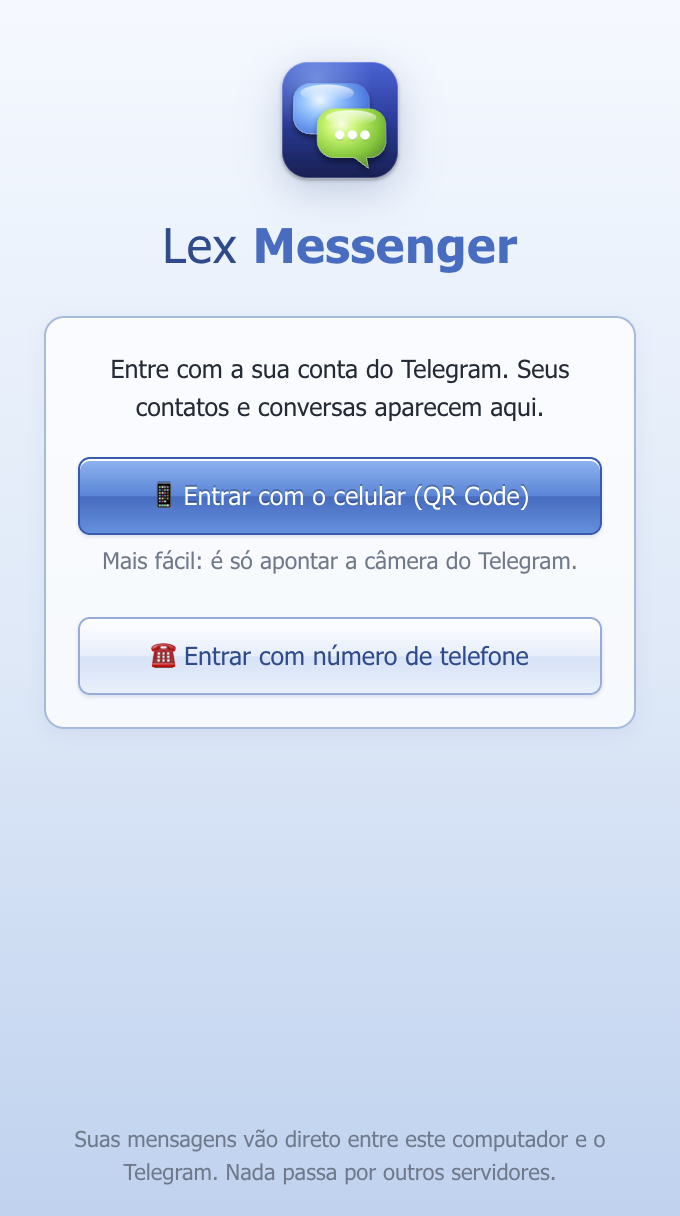
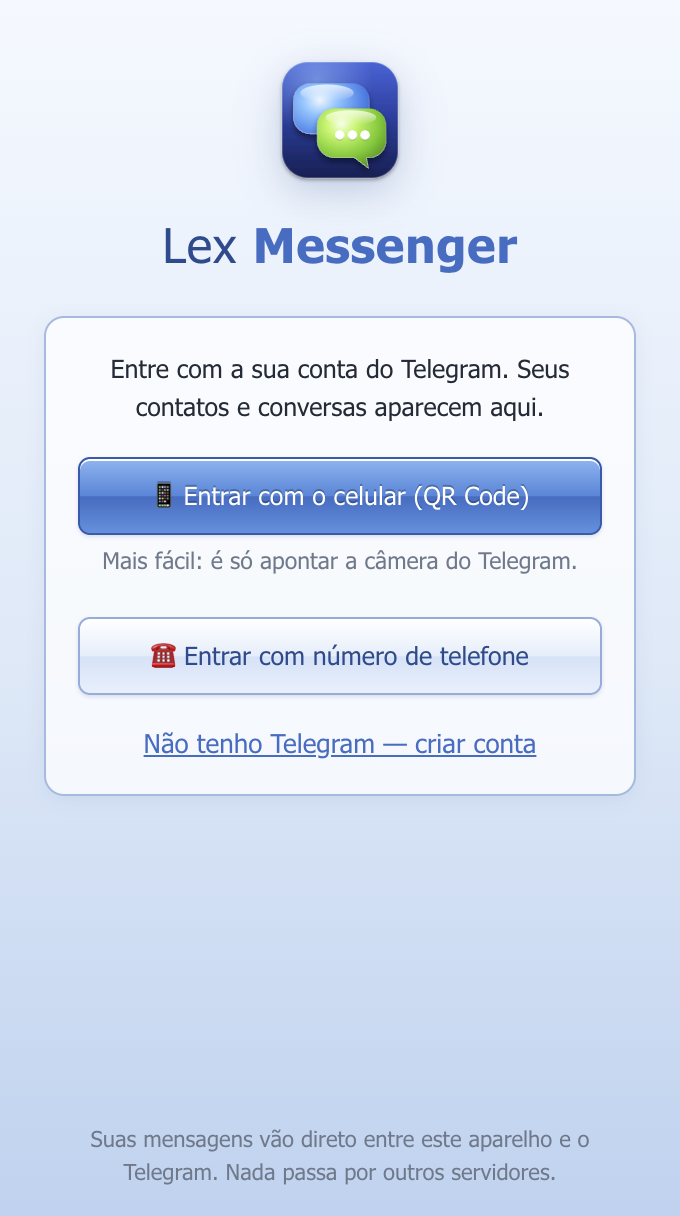
Criar conta do Telegram pelo Lex, com aceite explícito dos Termos
O GramJS aceita os Termos de Serviço automaticamente após o auth.SignUp; agora o Lex
só chega a esse ponto se a pessoa marcar "Li e aceito" na tela (com links para os
Termos e a Política de Privacidade do Telegram).

diff --git a/src/renderer/components/Login.tsx b/src/renderer/components/Login.tsx
@@ -10,6 +10,10 @@ export function Login({ auth }: { auth: AuthState }) {
   const [value, setValue] = useState('');
   const [busy, setBusy] = useState(false);
   const [qrImg, setQrImg] = useState('');
+  const [creating, setCreating] = useState(false);
+  const [first, setFirst] = useState('');
+  const [last, setLast] = useState('');
+  const [accepted, setAccepted] = useState(false);
   const input = useRef<HTMLInputElement>(null);
 
   useEffect(
@@ -26,7 +30,8 @@ export function Login({ auth }: { auth: AuthState }) {
 
   useEffect(() => input.current?.focus(), [step]);
 
-  const start = (m: 'phone' | 'qr') => {
+  const start = (m: 'phone' | 'qr', create = false) => {
+    setCreating(create);
     setMethod(m);
     setStep(null);
     setBusy(true);
@@ -42,6 +47,12 @@ export function Login({ auth }: { auth: AuthState }) {
 
   const submit = (e: React.FormEvent) => {
     e.preventDefault();
+    if (step?.step === 'signup') {
+      if (!first.trim() || !accepted) return;
+      setBusy(true);
+      void lex.loginAnswer(JSON.stringify({ first, last, accepted }));
+      return;
+    }
     if (!value.trim()) return;
     let v = value.trim();
     if (step?.step === 'phone') {
@@ -101,6 +112,9 @@ export function Login({ auth }: { auth: AuthState }) {
               </button>
             </>
           )}
+          <button className="link-btn create-account" onClick={() => start('phone', true)}>
+            Não tenho Telegram — criar conta
+          </button>
         </>
       )}
 
@@ -133,13 +147,16 @@ export function Login({ auth }: { auth: AuthState }) {
         </div>
       )}
 
-      {step && (step.step === 'phone' || step.step === 'code' || step.step === 'password') && (
+      {step && (step.step === 'phone' || step.step === 'code' || step.step === 'password' || step.step === 'signup') && (
         <form onSubmit={submit} className="login-form">
           {step.step === 'phone' && (
             <>
               <label htmlFor="v">Seu número de celular</label>
               <input ref={input} id="v" type="tel" placeholder="(91) 98888-7777" value={value} onChange={(e) => setValue(e.target.value)} />
-              <p className="hint">Com DDD. De outro país? Comece com + e o código do país.</p>
+              <p className="hint">
+                Com DDD. De outro país? Comece com + e o código do país.
+                {creating && ' Como você ainda não tem Telegram, o código chega por SMS.'}
+              </p>
             </>
           )}
           {step.step === 'code' && (
@@ -164,9 +181,38 @@ export function Login({ auth }: { auth: AuthState }) {
               {step.hint && <p className="hint">Dica: {step.hint}</p>}
             </>
           )}
+          {step.step === 'signup' && (
+            <>
+              <p className="intro">
+                <b>Vamos criar a sua conta do Telegram.</b> É grátis. Depois você também pode usar o app oficial do Telegram
+                com este número.
+              </p>
+              <label htmlFor="first">Nome</label>
+              <input ref={input} id="first" maxLength={64} value={first} onChange={(e) => setFirst(e.target.value)} autoComplete="given-name" />
+              <label htmlFor="last" className="spaced">
+                Sobrenome (opcional)
+              </label>
+              <input id="last" maxLength={64} value={last} onChange={(e) => setLast(e.target.value)} autoComplete="family-name" />
+              <label className="check terms">
+                <input type="checkbox" checked={accepted} onChange={(e) => setAccepted(e.target.checked)} />
+                Li e aceito os{' '}
+                <a href="https://telegram.org/tos/br" target="_blank" rel="noreferrer">
+                  Termos de Serviço
+                </a>{' '}
+                e a{' '}
+                <a href="https://telegram.org/privacy" target="_blank" rel="noreferrer">
+                  Política de Privacidade
+                </a>{' '}
+                do Telegram.
+              </label>
+            </>
+          )}
           {error && <p className="error">{error}</p>}
-          <button className="btn btn-primary wide" disabled={busy || !value.trim()}>
-            {busy ? 'Aguarde…' : 'Continuar'}
+          <button
+            className="btn btn-primary wide"
+            disabled={busy || (step.step === 'signup' ? !first.trim() || !accepted : !value.trim())}
+          >
+            {busy ? 'Aguarde…' : step.step === 'signup' ? 'Criar conta' : 'Continuar'}
           </button>
           <button type="button" className="btn wide" onClick={cancel}>
             Cancelar

diff --git a/src/core/telegram.ts b/src/core/telegram.ts
@@ -109,7 +109,11 @@ const ERRORS: Record<string, string> = {
   PHONE_CODE_EMPTY: 'Digite o código recebido.',
   PASSWORD_HASH_INVALID: 'Senha de verificação em duas etapas incorreta.',
   PHONE_NUMBER_BANNED: 'Este número está bloqueado pelo Telegram.',
-  PHONE_NUMBER_UNOCCUPIED: 'Este número ainda não tem conta no Telegram. Crie a conta no app oficial primeiro.',
+  PHONE_NUMBER_UNOCCUPIED: 'Este número ainda não tem conta no Telegram.',
+  FIRSTNAME_INVALID: 'Nome inválido. Use letras e no máximo 64 caracteres.',
+  LASTNAME_INVALID: 'Sobrenome inválido.',
+  PHONE_NUMBER_FLOOD: 'Muitas tentativas com este número. Tente mais tarde.',
+  PHONE_NUMBER_OCCUPIED: 'Este número já tem conta no Telegram: use “Entrar com número de telefone”.',
   API_ID_INVALID: 'As chaves do aplicativo (API ID/HASH) são inválidas.',
 };
 
@@ -124,6 +128,8 @@ function friendlyError(err: unknown): string {
 }
 
 const RETRYABLE = new Set([
+  'FIRSTNAME_INVALID',
+  'LASTNAME_INVALID',
   'PHONE_NUMBER_INVALID',
   'PHONE_CODE_INVALID',
   'PHONE_CODE_EMPTY',
@@ -413,6 +419,8 @@ export class TelegramService {
       if (code === 'SESSION_PASSWORD_NEEDED') return false;
       if (RETRYABLE.has(code) || code.startsWith('FLOOD_WAIT')) return false;
       if (method === 'qr' && (code === 'AUTH_TOKEN_EXPIRED' || !code)) return false;
+      if (/SIGN_?UP|REGISTRATION/i.test(code))
+        this.loginError = 'O Telegram não permitiu criar a conta por aqui. Crie pelo app oficial do Telegram e depois entre no Lex com o seu número.';
       this.hooks.emit('login:step', { step: 'failed', error: this.loginError });
       return true;
     };
@@ -440,8 +448,12 @@ export class TelegramService {
           phoneNumber: () => this.ask({ step: 'phone' }),
           phoneCode: (viaApp) => this.ask({ step: 'code', viaApp: !!viaApp }),
           password: (hint) => this.ask({ step: 'password', hint }),
+          // Número sem conta: a pessoa informa o nome e aceita os Termos do Telegram na tela do Lex
+          // (o aceite que a biblioteca envia depois só acontece porque ela marcou "Li e aceito").
           firstAndLastNames: async () => {
-            throw new Error('Este número ainda não tem conta no Telegram. Crie a conta no app oficial primeiro.');
+            const v = JSON.parse(await this.ask({ step: 'signup' })) as { first: string; last: string; accepted: boolean };
+            if (!v.accepted) throw new Cancelled();
+            return [v.first.trim(), v.last.trim() || undefined];
           },
           onError,
         });

diff --git a/src/main/demo.ts b/src/main/demo.ts
@@ -73,6 +73,12 @@ export function loginSnapshot() {
   setTimeout(async () => {
     const [w] = BrowserWindow.getAllWindows();
     writeFileSync(join(dir, 'entrada.png'), (await w.webContents.capturePage()).toPNG());
+    // Tela de criar conta (número sem Telegram)
+    await w.webContents.executeJavaScript("[...document.querySelectorAll('button')].find(b => b.textContent.includes('criar conta'))?.click()");
+    await new Promise((r) => setTimeout(r, 400));
+    w.webContents.send('login:step', { step: 'signup' });
+    await new Promise((r) => setTimeout(r, 800));
+    writeFileSync(join(dir, 'criar-conta.png'), (await w.webContents.capturePage()).toPNG());
     app.exit(0);
   }, 3000);
 }

diff --git a/src/renderer/styles.css b/src/renderer/styles.css
@@ -2189,3 +2189,28 @@ body.toast-body {
   color: #b9c6dc;
   font-size: 12px;
 }
+.create-account {
+  display: block;
+  margin: 14px auto 0;
+  font-size: 13px;
+}
+.login-form .spaced {
+  margin-top: 10px;
+}
+.login-form .terms {
+  font-weight: 400;
+  margin-top: 12px;
+  line-height: 1.5;
+}
+.login-form .terms input {
+  width: auto;
+  display: inline;
+  margin: 0 6px 0 0;
+  vertical-align: -2px;
+  box-shadow: none;
+}
+.login-form .terms a {
+  color: var(--blue);
+  text-decoration: underline;
+  font-weight: 600;
+}

diff --git a/src/shared/types.ts b/src/shared/types.ts
@@ -141,6 +141,8 @@ export type LoginStep =
   | { step: 'phone'; error?: string }
   | { step: 'code'; viaApp: boolean; error?: string }
   | { step: 'password'; hint?: string; error?: string }
+  /** Número sem conta no Telegram: nome, sobrenome e aceite dos Termos. Resposta: JSON {first, last}. */
+  | { step: 'signup'; error?: string }
   | { step: 'qr'; url: string; expires: number; error?: string }
   | { step: 'done' }
   | { step: 'failed'; error: string };

diff --git a/docs/MANUAL.md b/docs/MANUAL.md
@@ -74,6 +74,16 @@ Você precisa ter uma conta no Telegram (no celular). Há dois jeitos de entrar:
 
 Se você ativou a **verificação em duas etapas** no Telegram, o app também pede essa senha.
 
+**Não tem Telegram? Crie a conta pelo Lex**
+1. Na tela de entrada, toque em **Não tenho Telegram — criar conta** e digite o seu celular com DDD.
+2. O código chega **por SMS** (você ainda não tem o app do Telegram). Digite o código.
+3. Informe **nome** e, se quiser, **sobrenome**. Leia os **Termos de Serviço** e a **Política de Privacidade** do
+   Telegram (os links abrem no navegador), marque **“Li e aceito”** e toque em **Criar conta**.
+
+A conta é do Telegram, gratuita: depois dá para usar o mesmo número no app oficial também. Se o Telegram não permitir
+criar a conta por aqui (ele às vezes restringe por país ou por número), o Lex avisa: nesse caso, crie pelo app oficial
+e depois entre no Lex normalmente.
+
 Você só faz isso uma vez: nas próximas aberturas, o Lex Messenger entra sozinho.
 
 ## 3. Lista de contatos

diff --git a/README.md b/README.md
@@ -38,7 +38,7 @@ Lista de contatos, uma janela para cada conversa, “chamar atenção”, sons e
 
 ## O que ele faz
 
-- **Entra com a sua conta do Telegram**, pelo QR Code (aponte a câmera do celular) ou pelo número de telefone.
+- **Entra com a sua conta do Telegram**, pelo QR Code (aponte a câmera do celular) ou pelo número de telefone — e quem **não tem Telegram** pode **criar a conta** ali mesmo.
 - **Lista de contatos** separada em Online, Offline, Grupos e Canais, com quem está ausente e mensagens não lidas.
 - **Uma janela para cada conversa**: cada mensagem com o nome de quem enviou e a hora em cima, fotos de perfil e o aviso “está digitando…”.
 - **Mensagens que se autodestroem** ⏱: escolha 30 s, 1 min, 5 min, 1 h ou 24 h; a mensagem some para os dois lados e o aviso 🔥 também some em 12 horas.

diff --git a/CHANGELOG.md b/CHANGELOG.md
@@ -3,6 +3,7 @@
 ## v0.5.0
 - **iPhone sem App Store**: app pelo Safari (“Adicionar à Tela de Início”), com as mesmas telas do Android; áudios no formato de voz do Telegram também no iPhone.
 - **Mensagens que se autodestroem** (30 s a 24 h), apagadas para os dois lados; o aviso 🔥 some em 12 horas.
+- **Criar conta do Telegram** pelo Lex, para quem ainda não tem (código por SMS, nome e aceite dos Termos de Serviço do Telegram na própria tela).
 - **Mídia sensível** 🔞: foto, vídeo ou recado vai coberto (spoiler do Telegram) e só aparece quando a pessoa toca; ao fechar, cobre de novo.
 - **Lista de tarefas** na conversa: um cria, o outro marca como feito, com progresso para os dois.
 - **Figurinhas e GIFs**: recentes, pacotes, GIFs salvos e busca; GIFs e figurinhas animadas tocam na conversa.
